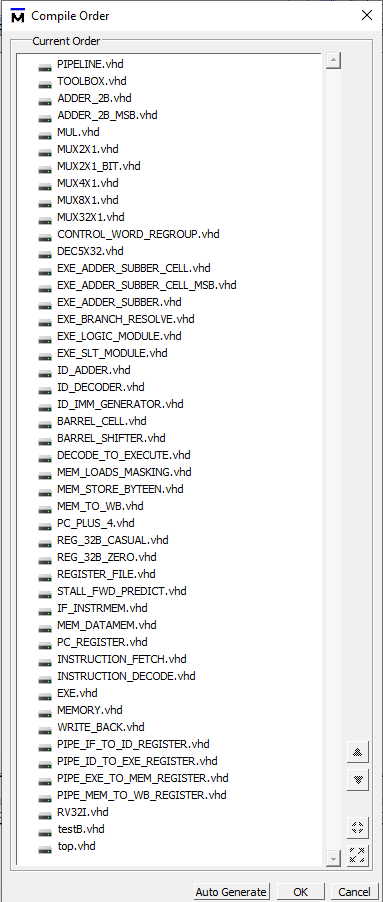
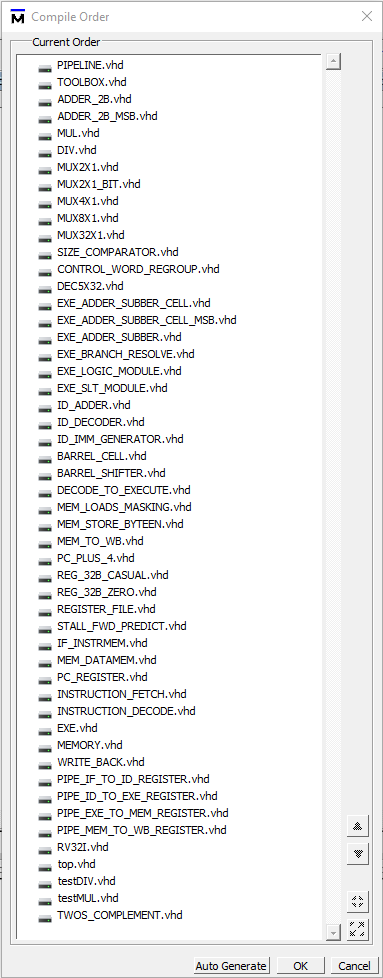
small changes

diff --git a/bneCalculator.py b/bneCalculator.py
@@ -32,8 +32,8 @@ def bneConverter(hexDestination,hexSource,Rs1,Rs2):
     return hexCommand
 
 if __name__=='__main__':
-    hexDestination = "c8"
-    hexSource = "a8"
+    hexDestination = "c8" #pc destination
+    hexSource = "a8" #pc source
     registerRs1 = "11100" #t3
     registerRs2 = "11101" #t4
     #registerRs1 = "00011" #gp

diff --git a/allages.md b/allages.md
@@ -69,13 +69,39 @@
     * άλλαξα το μέγεθος του ALU_OPCODE απο (8 DOWNTO 0) σε (9 DOWNTO 0) {σειρα 142}
 
 
-Μετά από όλες αυτές τις αλλαγές λειτουργεί κανονικά η εντολή MUL και η εντολή DIV:\
-* Π.Χ. Για την εντολή MUL $t3,$t4,$t5 (t3 = t4*t5) :\
+Μετά από όλες αυτές τις αλλαγές λειτουργεί κανονικά οι εντολές του MUL και οι εντολές του DIV:\
+### MUL
+* Π.Χ. Για την εντολή MUL $t5,$t4,$t3 (t5 = t4*t3) :\
 **Funct7** &nbsp; &nbsp; **rs2** &nbsp; &nbsp; &nbsp;**rs1** **funct3** **rd** &nbsp; &nbsp;**opcode** \
-1000000 11110 11101 000 11100 0110011 ή 81df0e33
+1000000 11101 11100 000 11110 0110011 ή 81de0f33
+
+* Π.Χ. Για την εντολή MULH $t5,$t4,$t3 (t5 = t4*t3) :\
+**Funct7** &nbsp; &nbsp; **rs2** &nbsp; &nbsp; &nbsp;**rs1** **funct3** **rd** &nbsp; &nbsp;**opcode** \
+1000000 11101 11100 001 11110 0110011 ή 81de1f33
+
+* Π.Χ. Για την εντολή MULHU $t5,$t4,$t3 (t5 = t4*t3) :\
+**Funct7** &nbsp; &nbsp; **rs2** &nbsp; &nbsp; &nbsp;**rs1** **funct3** **rd** &nbsp; &nbsp;**opcode** \
+1000000 11101 11100 010 11110 0110011 ή 81de2f33
+
+* Π.Χ. Για την εντολή MULHSU $t5,$t4,$t3 (t5 = t4*t3) :\
+**Funct7** &nbsp; &nbsp; **rs2** &nbsp; &nbsp; &nbsp;**rs1** **funct3** **rd** &nbsp; &nbsp;**opcode** \
+1000000 11101 11100 011 11110 0110011 ή 81de3f33
 
 <br>
 
+### DIV
 * Π.Χ. Για την εντολή DIV $t5,$t4,$t3 (t5 = t4/t3) :\
 **Funct7** &nbsp; &nbsp; **rs2** &nbsp; &nbsp; &nbsp;**rs1** **funct3** **rd** &nbsp; &nbsp;**opcode** \
-1100000 11101 11100 000 11110 0110011 ή c1ce8f33
+1000000 11101 11100 100 11110 0110011 ή 81de4f33
+
+* Π.Χ. Για την εντολή DIVU $t5,$t4,$t3 (t5 = t4/t3) :\
+**Funct7** &nbsp; &nbsp; **rs2** &nbsp; &nbsp; &nbsp;**rs1** **funct3** **rd** &nbsp; &nbsp;**opcode** \
+1000000 11101 11100 101 11110 0110011 ή 81de5f33
+
+* Π.Χ. Για την εντολή REM $t5,$t4,$t3 (t5 = t4/t3) :\
+**Funct7** &nbsp; &nbsp; **rs2** &nbsp; &nbsp; &nbsp;**rs1** **funct3** **rd** &nbsp; &nbsp;**opcode** \
+1000000 11101 11100 110 11110 0110011 ή 81de6f33
+
+* Π.Χ. Για την εντολή REMU $t5,$t4,$t3 (t5 = t4/t3) :\
+**Funct7** &nbsp; &nbsp; **rs2** &nbsp; &nbsp; &nbsp;**rs1** **funct3** **rd** &nbsp; &nbsp;**opcode** \
+1000000 11101 11100 111 11110 0110011 ή 81de7f33
